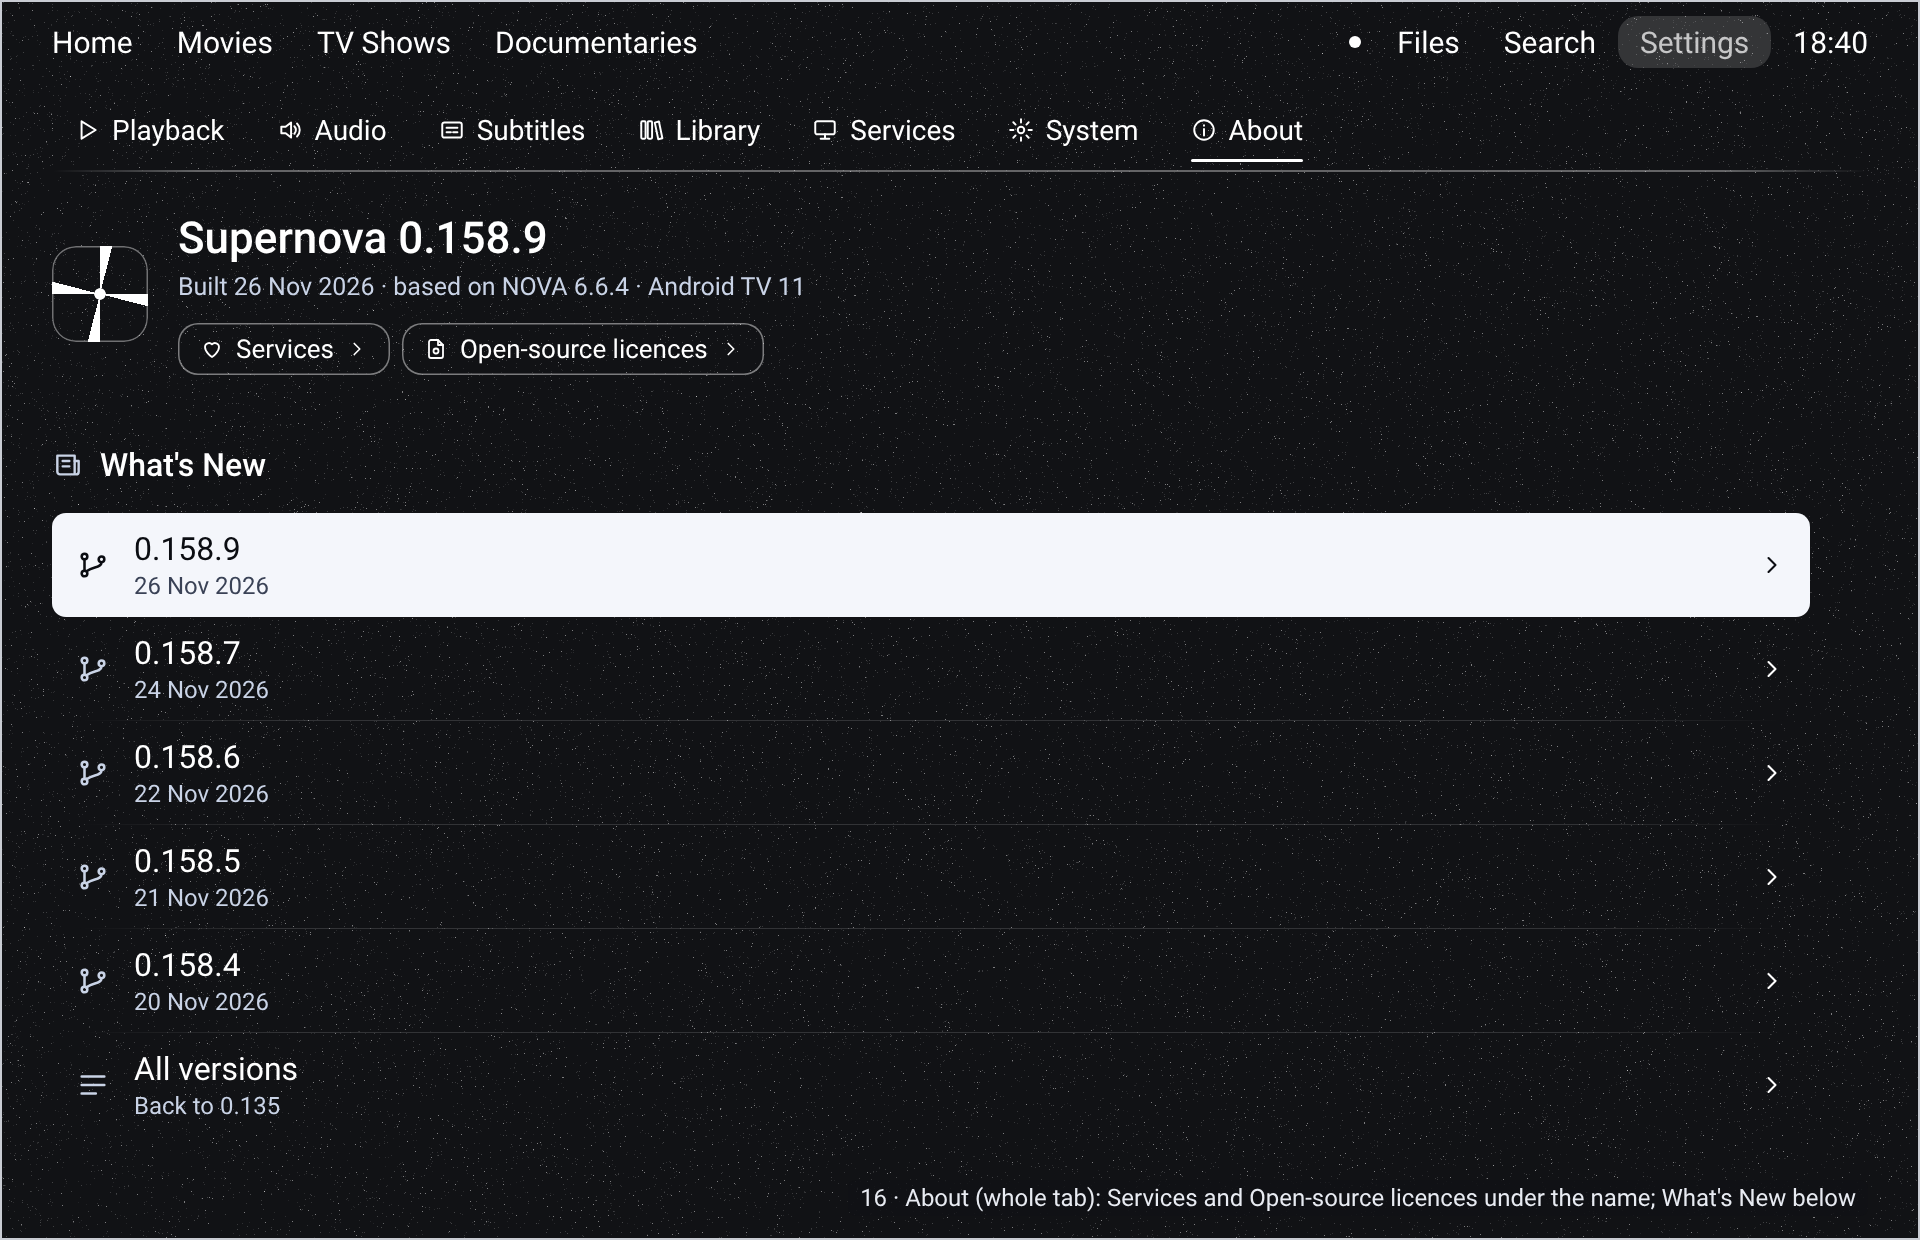
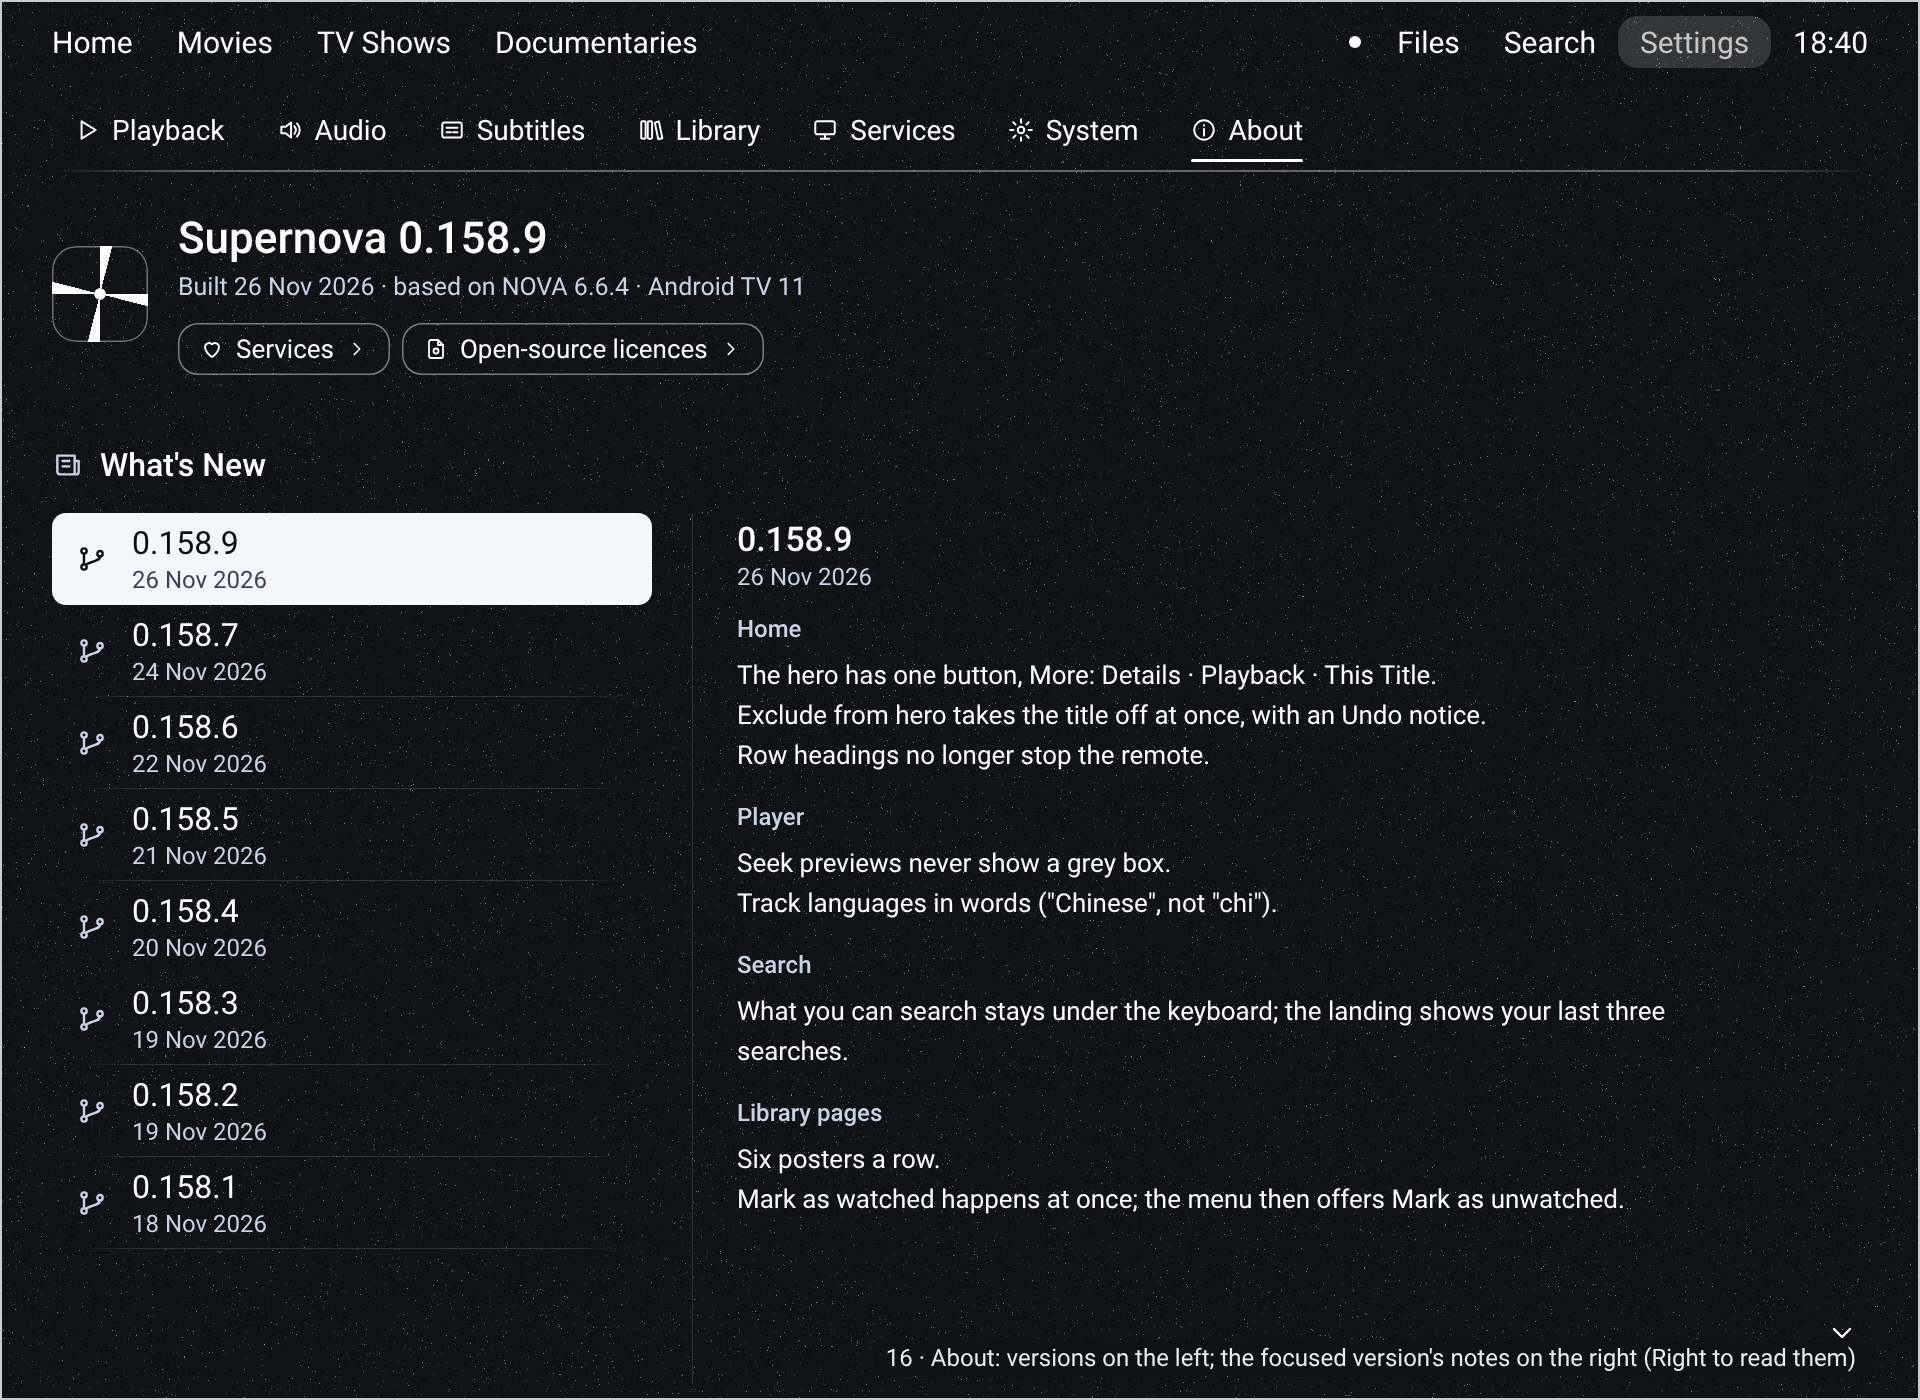
Settings About: What's New in two columns (versions left, notes right); all rounds approved

diff --git a/docs/design/proposals/settings-v3/render.js b/docs/design/proposals/settings-v3/render.js
@@ -756,11 +756,26 @@ function s16(focus = '0.158.9') {
     2026 · based on NOVA 6.6.4 · Android TV 11</div><div style="display:flex;gap:12px;margin-top:22px">
     ${btn(I.heartc, 'Services', focus === 'Credits')}${btn(I.licence, 'Open-source licences', focus === 'Licences')}</div>
     </div></div>`;
-  return page('About', [
-    [I.news, 'What\'s New', V.map(([v, d]) => ({ ic: I.version, n: v, l: d, k: 'go', v: '', on: v === focus }))
-      .concat([{ ic: I.all, n: 'All versions', l: 'Back to 0.135', k: 'go', v: '' }])],
-  ], { pre: `${head}<div style="height:58px"></div>`, arrows: false,
-    cap: '16 · About (whole tab): Services and Open-source licences under the name; What\'s New below' });
+  const vrow = ([v, d], k) => `<div class="r std${v === focus ? ' on' : ''}${k === V.length - 1 ? ' last' : ''}"
+    style="height:92px"><span class="ic">${svg(I.version, 32)}</span><span class="t"><b>${v}</b><small>${d}</small></span>
+    <span class="ch">${v === focus ? '' : ''}</span><i class="ln"></i></div>`;
+  const older = [['0.158.3', '19 Nov 2026'], ['0.158.2', '19 Nov 2026'], ['0.158.1', '18 Nov 2026']];
+  const notes = `<div style="position:absolute;left:640px;right:0;top:0;bottom:0;padding:6px 40px 0 44px;
+    border-left:1px solid rgba(255,255,255,.12)"><div style="font-size:34px;font-weight:500">0.158.9</div>
+    <div style="font-size:24px;color:#c9d3e6;margin:4px 0 18px">26 Nov 2026</div><div class="notes" style="padding:0;
+    font-size:26px;line-height:40px"><h4>Home</h4>The hero has one button, More: Details · Playback · This Title.<br>Exclude
+    from hero takes the title off at once, with an Undo notice.<br>Row headings no longer stop the remote.
+    <h4>Player</h4>Seek previews never show a grey box.<br>Track languages in words ("Chinese", not "chi").
+    <h4>Search</h4>What you can search stays under the keyboard; the landing shows your last three searches.
+    <h4>Library pages</h4>Six posters a row.<br>Mark as watched happens at once; the menu then offers Mark as unwatched.
+    </div></div>`;
+  const body = `<div style="position:relative;height:940px">${hd(I.news, 'What\'s New', true)}<div style="position:absolute;
+    left:0;top:70px;width:600px">${V.concat(older).map(vrow).join('')}</div><div style="position:absolute;left:0;right:0;
+    top:70px;bottom:0">${notes}</div><div style="position:absolute;right:-48px;bottom:30px;color:#fff">${svg(I.down, 32)}</div>
+    </div>`;
+  return bar() + tabs('About', null) + `<div class="list" style="top:212px">${head}<div style="height:58px"></div>${body}</div>`
+    + `<div class="cap2">16 · About: versions on the left; the focused version's notes on the right (Right to read them)</div>`;
+
 }
 
 function s17() {
@@ -832,7 +847,7 @@ const ROUNDS = {
   'round-3': [['07-library', s07, 2700], ['08-clear-viewing-history', s08], ['09-services', s09, 1820],
     ['10-your-services', s10], ['11a-trakt-signed-out', s11a], ['11b-trakt-signed-in', s11b, 1500]],
   'round-4': [['12-system', s12, 2900], ['13-what-to-back-up', s13], ['14-restore', s14], ['14b-in-this-backup', s14b],
-    ['15-restore-progress', s15, 1500], ['16-about', s16, 1240], ['17-whats-new-notes', s17], ['18-credits', s18], ['18b-credits-tmdb', s18b],
+    ['15-restore-progress', s15, 1500], ['16-about', s16, 1400], ['17-whats-new-notes', s17], ['18-credits', s18], ['18b-credits-tmdb', s18b],
     ['19-licences', s19], ['19b-licence-ffmpeg', s19b]],
 };
 

diff --git a/docs/design/pages/SETTINGS.md b/docs/design/pages/SETTINGS.md
@@ -59,11 +59,15 @@ Signed in (`05c`), languages (`04`) and Font (`06`) as drawn.
   row → Restart now (`15`). The list ends with a plain line: "Backups from another device: copy them into Download ›
   Supernova › Backups and they appear here." With none yet: "No backups yet. Back up now, or copy one from another
   device into Download › Supernova › Backups." (the folder named as it is set). What to back up `13` v2 approved.
-- About uses the official Supernova mark (RULES §21).
+- About uses the official Supernova mark (RULES §21). **All four Settings rounds approved (owner, 27 Nov).**
 - **About (owner, 27 Nov; `16` v3):** two small buttons under the version line, **Services ›** and **Open-source
   licences ›** (no "More" section at the foot); What's New below. OK on a button opens its list floating beside the
   page, the button still focused behind it (`18`, `19`); OK on an item opens its pop-up a step down and left in front
   of the list (`18b`, `19b`); Back steps back.
+- **What's New in two columns (owner, 27 Nov; `16` v4; replaces the notes pop-up `17`):** versions on the left (about
+  a third of the width), every version back to 0.135 in one scrolling list (no All versions row); the right side shows
+  the focused version's notes, the newest when the tab opens, changing as focus moves down the list. Right moves into
+  the notes (read-only: Down / Up scroll, arrows in the margin); Left returns to the version.
 
 ## Whole page
 - A full page with tabs, like Files: no tiles, no panel. **Seven tabs:** Playback · Audio · Subtitles · Library ·
